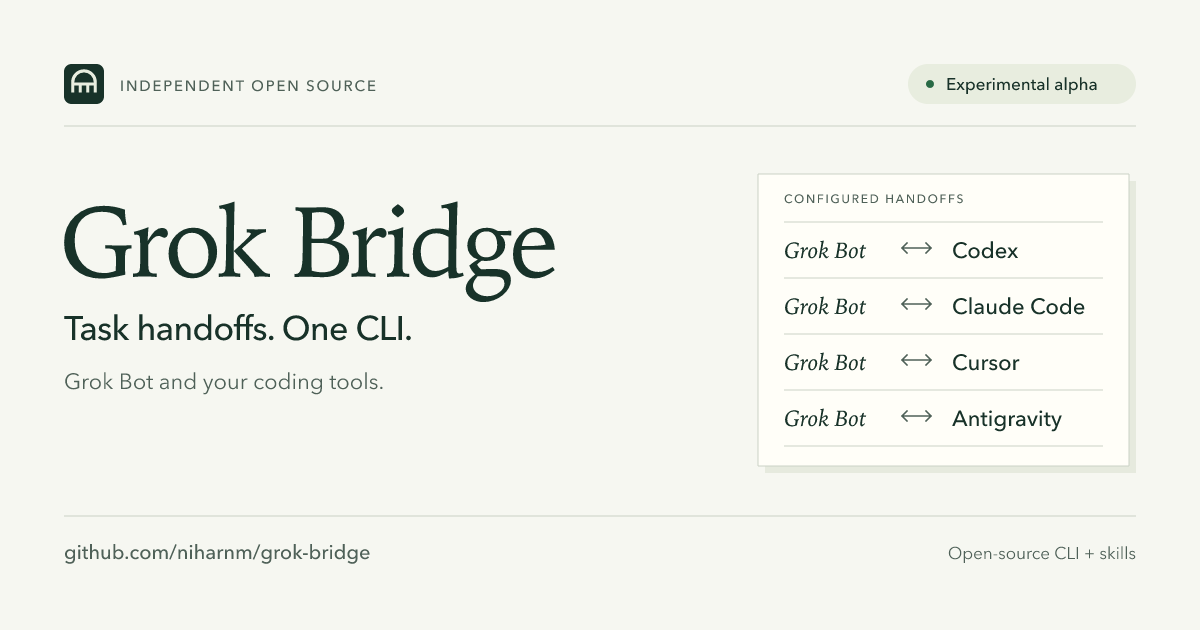
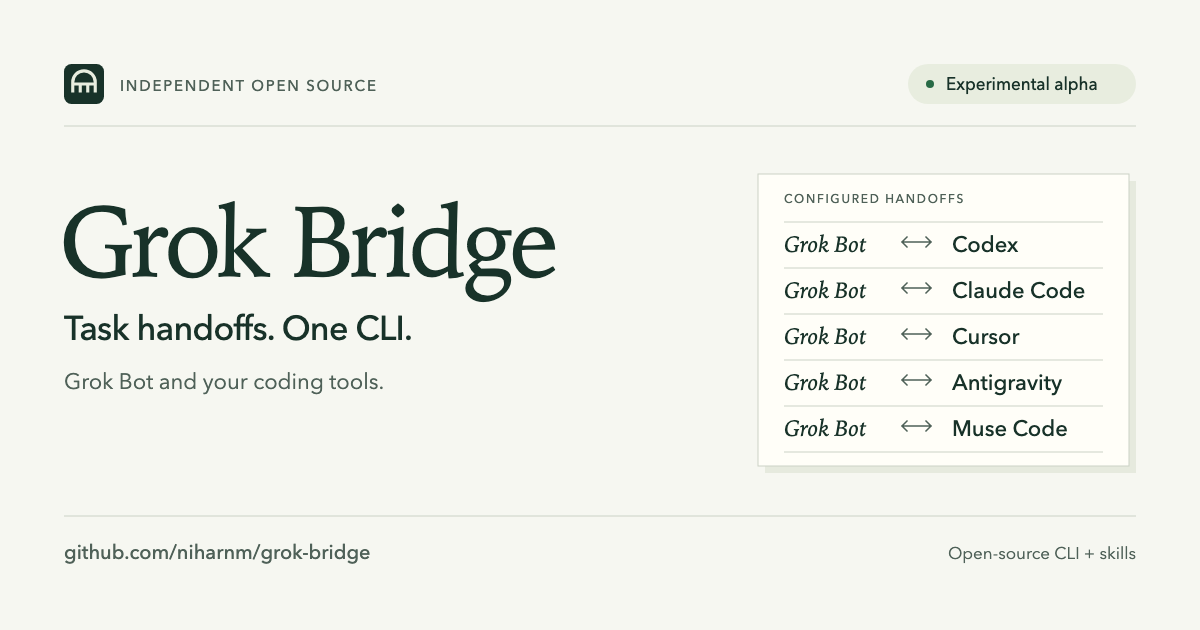
Prepare 0.1.0-alpha.2 so pinned installs include Muse Code
Every install command, plugin manifest, marketplace reference, and the
website pointed at v0.1.0-alpha.1, which predates the muse target. A
reader who followed the docs got a CLI that rejected --to muse.

This bumps the version to 0.1.0-alpha.2 across package.json, the three
plugin manifests, and both marketplaces, and repins every current
instruction to the new tag. The stopgap "install from main" notes are
removed. Historical records keep their alpha.1 references.

The website evidence text now counts ten routes and says the Muse Code
routes have no live exchange yet. The social card adds a Muse Code row.

No adapter code changed. All five coding targets were smoke-tested
through the CLI in review, work, and resume modes.

diff --git a/docs/index.html b/docs/index.html
@@ -50,7 +50,7 @@
         "programmingLanguage": "JavaScript",
         "runtimePlatform": "Node.js 22 or newer",
         "license": "https://github.com/niharnm/grok-bridge/blob/main/LICENSE",
-        "version": "0.1.0-alpha.1",
+        "version": "0.1.0-alpha.2",
         "author": {
           "@type": "Person",
           "name": "Nihar",
@@ -153,7 +153,7 @@
             </p>
             <a
               class="text-link"
-              href="https://github.com/niharnm/grok-bridge/releases/tag/v0.1.0-alpha.1"
+              href="https://github.com/niharnm/grok-bridge/releases/tag/v0.1.0-alpha.2"
               >Release & download <span aria-hidden="true">↗</span></a
             >
           </div>
@@ -170,7 +170,7 @@
                   Copy
                 </button>
               </div>
-              <pre><code id="install-command">npm install -g github:niharnm/grok-bridge#v0.1.0-alpha.1</code></pre>
+              <pre><code id="install-command">npm install -g github:niharnm/grok-bridge#v0.1.0-alpha.2</code></pre>
               <p class="terminal-note">
                 Then run <code>grok-bridge doctor</code> to check installed
                 executables.
@@ -240,8 +240,9 @@
           >
         </div>
         <p class="section-intro">
-          The alpha includes all eight routes. These are the observed live
-          results as of September 13, 2026.
+          The alpha configures ten routes. These are the observed live
+          results as of September 13, 2026. The two Muse Code routes were
+          added October 26, 2026, and have no live exchange yet.
         </p>
         <div class="evidence-grid">
           <div class="evidence-column">

diff --git a/test/site.test.js b/test/site.test.js
@@ -48,7 +48,7 @@ test("landing copy action writes the exact published installation command", asyn
   await ui.click();
   assert.equal(
     written,
-    "npm install -g github:niharnm/grok-bridge#v0.1.0-alpha.1",
+    "npm install -g github:niharnm/grok-bridge#v0.1.0-alpha.2",
   );
   assert.equal(ui.status.textContent, "Installation command copied.");
 });

diff --git a/README.md b/README.md
@@ -6,11 +6,11 @@
 [![MIT license](https://img.shields.io/badge/license-MIT-blue.svg)](LICENSE)
 [![Node.js 22+](https://img.shields.io/badge/node-%E2%89%A522-43853d.svg)](package.json)
 
-[Website](https://niharnm.github.io/grok-bridge/) · [Shared skill install](docs/skill-indexes.md) · [skills.sh pack](https://skills.sh/p/o02Pja39oijRhbnx) · [Release](https://github.com/niharnm/grok-bridge/releases/tag/v0.1.0-alpha.1)
+[Website](https://niharnm.github.io/grok-bridge/) · [Shared skill install](docs/skill-indexes.md) · [skills.sh pack](https://skills.sh/p/o02Pja39oijRhbnx) · [Release](https://github.com/niharnm/grok-bridge/releases/tag/v0.1.0-alpha.2)
 
 Hand a bounded task to another tool, get a result, and continue where you started. Grok Bridge packages a small shared runner, Codex, Claude Code, and Cursor plugins plus Antigravity and Muse Code skills, and a Grok Bot setup workflow. No runtime npm dependencies, separate bridge account, or custom remote-command server.
 
-**Experimental alpha.** Three directions have live evidence: Codex to Grok Bot, Grok Bot to Codex, and Grok Bot to Antigravity. Native Codex and Antigravity reads and edits also passed. Claude provider access, Cursor login, Antigravity source-host command permissions, and actual host skill discovery still limit acceptance. See the [acceptance record](docs/acceptance.md).
+**Experimental alpha.** Three directions have live evidence: Codex to Grok Bot, Grok Bot to Codex, and Grok Bot to Antigravity. Native Codex and Antigravity reads and edits also passed. Claude provider access, Cursor login, Antigravity source-host command permissions, and actual host skill discovery still limit acceptance. The Muse Code routes, added in `0.1.0-alpha.2`, have offline tests only and no live exchange yet. See the [acceptance record](docs/acceptance.md).
 
 | From | To | How |
 | --- | --- | --- |
@@ -32,7 +32,7 @@ Grok Bot's cloud computer is separate from your laptop. The reverse routes use i
 Install [Node.js 22 or newer](https://nodejs.org/en/download), then install from this repository:
 
 ```sh
-npm install -g github:niharnm/grok-bridge#v0.1.0-alpha.1
+npm install -g github:niharnm/grok-bridge#v0.1.0-alpha.2
 grok-bridge doctor
 ```
 
@@ -63,8 +63,6 @@ grok-bridge run --to antigravity --cwd /absolute/repo --mode review --task-file 
 grok-bridge run --to muse --cwd /absolute/repo --mode review --task-file task.txt
 ```
 
-The `muse` target is newer than the `v0.1.0-alpha.1` tag. To use it, install from `main` with `npm install -g github:niharnm/grok-bridge` until the next tag.
-
 `review` is the default. `work` explicitly permits edits within the task's scope. Supply `--model` only to select a particular destination model; otherwise its configured default applies. To continue a returned native session, use `--session SESSION_UUID` with the same target and repository. Nothing silently selects the most recent session.
 
 ## Install the host plugins
@@ -74,7 +72,7 @@ For a single shared Agent Skill across Codex, Claude Code, Cursor, Antigravity, 
 For **Claude Code**, run in its interactive prompt:
 
 ```text
-/plugin marketplace add niharnm/grok-bridge@v0.1.0-alpha.1
+/plugin marketplace add niharnm/grok-bridge@v0.1.0-alpha.2
 /plugin install grok-bridge@grok-bridge
 ```
 
@@ -83,7 +81,7 @@ Use `/grok-bridge:forward` to delegate to a chosen Grok Bot. `/grok-bridge:run` 
 For **Codex**, add the repository marketplace:
 
 ```sh
-codex plugin marketplace add niharnm/grok-bridge --ref v0.1.0-alpha.1
+codex plugin marketplace add niharnm/grok-bridge --ref v0.1.0-alpha.2
 ```
 
 Install Grok Bridge from the plugin browser and start a new session. Ask it to use the `forward` skill with a specific Bot and task. The repository includes the supported `.codex-plugin` compatibility manifest and `.agents/plugins/marketplace.json`.
@@ -134,7 +132,7 @@ The local child receives `GROK_BRIDGE_CHILD=1`; recursive bridge calls fail. Hos
 ## Development and evidence
 
 ```sh
-git clone --branch v0.1.0-alpha.1 https://github.com/niharnm/grok-bridge.git
+git clone --branch v0.1.0-alpha.2 https://github.com/niharnm/grok-bridge.git
 cd grok-bridge
 npm run check
 npm test

diff --git a/skills/grok-bridge/SKILL.md b/skills/grok-bridge/SKILL.md
@@ -5,9 +5,9 @@ description: Delegate a user-authorized task between Grok Bot and Codex, Claude 
 
 # Grok Bridge
 
-Use the installed `grok-bridge` executable. This skill contains instructions only. The runtime is the experimental `github:niharnm/grok-bridge#v0.1.0-alpha.1` package, installed separately. Preserve the destination's configured model unless the user specifies `--model MODEL`.
+Use the installed `grok-bridge` executable. This skill contains instructions only. The runtime is the experimental `github:niharnm/grok-bridge#v0.1.0-alpha.2` package, installed separately. Preserve the destination's configured model unless the user specifies `--model MODEL`.
 
-Read the relevant setup guide when a prerequisite is missing: [Codex and Claude Code](https://github.com/niharnm/grok-bridge/blob/v0.1.0-alpha.1/README.md#install-the-host-plugins), [Cursor](https://github.com/niharnm/grok-bridge/blob/v0.1.0-alpha.1/docs/cursor-setup.md), [Antigravity](https://github.com/niharnm/grok-bridge/blob/v0.1.0-alpha.1/docs/antigravity-setup.md), [Muse Code](https://github.com/niharnm/grok-bridge/blob/main/docs/muse-setup.md), or [Grok Bot](https://github.com/niharnm/grok-bridge/blob/v0.1.0-alpha.1/docs/grok-bot-setup.md). Installing this skill does not install executables, authenticate accounts, or grant command permissions. `grok-bridge doctor` checks executable availability only.
+Read the relevant setup guide when a prerequisite is missing: [Codex and Claude Code](https://github.com/niharnm/grok-bridge/blob/v0.1.0-alpha.2/README.md#install-the-host-plugins), [Cursor](https://github.com/niharnm/grok-bridge/blob/v0.1.0-alpha.2/docs/cursor-setup.md), [Antigravity](https://github.com/niharnm/grok-bridge/blob/v0.1.0-alpha.2/docs/antigravity-setup.md), [Muse Code](https://github.com/niharnm/grok-bridge/blob/v0.1.0-alpha.2/docs/muse-setup.md), or [Grok Bot](https://github.com/niharnm/grok-bridge/blob/v0.1.0-alpha.2/docs/grok-bot-setup.md). Installing this skill does not install executables, authenticate accounts, or grant command permissions. `grok-bridge doctor` checks executable availability only.
 
 ## Prepare one bounded task
 
@@ -34,7 +34,7 @@ A timeout or Ctrl-C stops local waiting without cancelling the cloud Bot. Do not
 
 ## Run a coding CLI
 
-Choose `codex`, `claude`, `cursor`, `antigravity`, or `muse` as requested. The `muse` target is newer than the tagged alpha; install from `main` to use it. The destination executable and login must exist on the execution host. Do not spawn another instance of the current host unless the user requested that separate run.
+Choose `codex`, `claude`, `cursor`, `antigravity`, or `muse` as requested. The destination executable and login must exist on the execution host. Do not spawn another instance of the current host unless the user requested that separate run.
 
 ```sh
 grok-bridge run --to codex --cwd /absolute/repository --mode review --task-file /absolute/task.txt --timeout 600

diff --git a/plugins/grok-bridge/skills/run/SKILL.md b/plugins/grok-bridge/skills/run/SKILL.md
@@ -5,7 +5,7 @@ description: Delegate a bounded task to Codex, Claude Code, Cursor, Antigravity,
 
 # Run a coding CLI
 
-Use the separately installed `grok-bridge` executable on PATH. Install this alpha with `npm install -g github:niharnm/grok-bridge#v0.1.0-alpha.1`. Do not walk out of the plugin cache to locate runtime scripts. Installation instructions are at [Grok Bridge](https://github.com/niharnm/grok-bridge/tree/v0.1.0-alpha.1).
+Use the separately installed `grok-bridge` executable on PATH. Install this alpha with `npm install -g github:niharnm/grok-bridge#v0.1.0-alpha.2`. Do not walk out of the plugin cache to locate runtime scripts. Installation instructions are at [Grok Bridge](https://github.com/niharnm/grok-bridge/tree/v0.1.0-alpha.2).
 
 ## Check host and scope
 
@@ -21,7 +21,7 @@ Cursor review uses `--mode ask --sandbox enabled` without force. Cursor work use
 
 Antigravity invokes the official `agy` CLI. Review selects `--mode plan`, which supplies review instructions without enforcing read-only access. Work selects `--mode accept-edits`. Both use `--sandbox --disable-slash-commands`; the sandbox can permit workspace writes. A successful terminal response can still follow a denied action, so verify that the required work actually happened. Do not bypass native permissions. Use `GROK_BRIDGE_ANTIGRAVITY_BIN` for a custom absolute executable path.
 
-Muse Code invokes Meta's `muse exec`. Both modes use `--approval-mode never` with Muse's OS sandbox on, so nothing waits for approval and the sandbox contains what runs. Review adds `--disable-write --disable-shell`. The bridge never adds `--yolo`, `--disable-sandbox`, or `--trust-workspace`. A run that waited on a tool approval returns `blocked`. Use `GROK_BRIDGE_MUSE_BIN` for a custom absolute executable path. The `muse` target is newer than the `v0.1.0-alpha.1` tag. To use it, install from `main` with `npm install -g github:niharnm/grok-bridge` until the next tag.
+Muse Code invokes Meta's `muse exec`. Both modes use `--approval-mode never` with Muse's OS sandbox on, so nothing waits for approval and the sandbox contains what runs. Review adds `--disable-write --disable-shell`. The bridge never adds `--yolo`, `--disable-sandbox`, or `--trust-workspace`. A run that waited on a tool approval returns `blocked`. Use `GROK_BRIDGE_MUSE_BIN` for a custom absolute executable path.
 
 ## Invoke the requested CLI
 

diff --git a/docs/grok-bot-setup.md b/docs/grok-bot-setup.md
@@ -9,7 +9,7 @@ Three directions passed live checks on macOS: Codex to Grok Bot, Grok Bot to Cod
 On the computer running Codex, Claude Code, Cursor, Antigravity, or Muse Code, install Node.js 22 or newer, Grok Bridge, and the separately maintained community client:
 
 ```sh
-npm install -g github:niharnm/grok-bridge#v0.1.0-alpha.1
+npm install -g github:niharnm/grok-bridge#v0.1.0-alpha.2
 npm install -g grok-bot-cli@0.2.3
 grok-bridge doctor
 ```
@@ -59,8 +59,6 @@ grok-bridge run --to cursor --cwd /absolute/repository --mode review --task-file
 grok-bridge run --to antigravity --cwd /absolute/repository --mode review --task-file /absolute/task.txt
 grok-bridge run --to muse --cwd /absolute/repository --mode review --task-file /absolute/task.txt
 ```
-
-The `muse` target is newer than the `v0.1.0-alpha.1` tag. To use it, install from `main` with `npm install -g github:niharnm/grok-bridge` until the next tag.
 
 Check the returned result against the source before trying `--mode work` with a scoped edit. Review and work permissions differ by target: Cursor work uses force inside its enabled sandbox, Antigravity review supplies plan instructions without an enforced read-only boundary, and Muse Code runs with approvals off inside its OS sandbox. Read the target's setup guide before an edit task. Installations and logins are separate setup actions. The bridge must not alter local-execution policies or invent an approval bypass.
 

diff --git a/docs/cursor-setup.md b/docs/cursor-setup.md
@@ -14,7 +14,7 @@ The forward gateway is experimental. This alpha has no verified authenticated Cu
 Install Node.js 22 or newer and the tagged CLI:
 
 ```sh
-npm install -g github:niharnm/grok-bridge#v0.1.0-alpha.1
+npm install -g github:niharnm/grok-bridge#v0.1.0-alpha.2
 ```
 
 Use the tag for both the runtime and plugin. The repository's default branch can differ from the alpha's implementation.
@@ -22,7 +22,7 @@ Use the tag for both the runtime and plugin. The repository's default branch can
 For Cursor's native plugin, clone the same tag into a new directory:
 
 ```sh
-git clone --branch v0.1.0-alpha.1 --depth 1 https://github.com/niharnm/grok-bridge.git grok-bridge-alpha
+git clone --branch v0.1.0-alpha.2 --depth 1 https://github.com/niharnm/grok-bridge.git grok-bridge-alpha
 ```
 
 Copy the clone's `plugins/grok-bridge` directory, including its hidden `.cursor-plugin` directory, into `~/.cursor/plugins/local/grok-bridge`. If that destination already exists, inspect it before updating; preserve any local changes. Restart Cursor or run **Developer: Reload Window**, then confirm the `forward` and `run` skills under **Customize**.

diff --git a/docs/acceptance.md b/docs/acceptance.md
@@ -9,7 +9,9 @@ Checked September 13, 2026. Implementation, offline tests, live provider checks,
 - Community grok-bot-cli 0.2.3, inspected commit `9192bf8f4c05d65abdb568554d3809ec5e4e380f`.
 - A dedicated Grok Bot and an isolated scratch Git repository with a known fixture.
 
-## Eight configured directions
+## Original eight directions
+
+These are the `0.1.0-alpha.1` routes. The two Muse Code directions are recorded separately [below](#muse-code-destination).
 
 | Direction | Observed result | Remaining boundary |
 | --- | --- | --- |
@@ -58,7 +60,7 @@ All four CI jobs passed on Node.js 22/24 across macOS/Linux for [implementation 
 
 ## Muse Code destination
 
-Added October 26, 2026, after the alpha tag. The Muse Code routes are configured but have no live exchange yet. Muse Code was not installed on the development host, and no Muse login was used.
+Added October 26, 2026, and released in `0.1.0-alpha.2`. The Muse Code routes are configured but have no live exchange yet. Muse Code was not installed on the development host, and no Muse login was used.
 
 | Check | Observed result |
 | --- | --- |

diff --git a/integrations/antigravity/grok-bridge/SKILL.md b/integrations/antigravity/grok-bridge/SKILL.md
@@ -5,7 +5,7 @@ description: Use Grok Bridge from Antigravity to send a user-authorized task to 
 
 # Grok Bridge for Antigravity
 
-Invoke the shared `grok-bridge` CLI on PATH. Install the alpha separately with `npm install -g github:niharnm/grok-bridge#v0.1.0-alpha.1`. This skill contains no runtime and must not search outside its installed directory for scripts. See the [tagged setup guide](https://github.com/niharnm/grok-bridge/blob/v0.1.0-alpha.1/docs/antigravity-setup.md) for host-specific installation.
+Invoke the shared `grok-bridge` CLI on PATH. Install the alpha separately with `npm install -g github:niharnm/grok-bridge#v0.1.0-alpha.2`. This skill contains no runtime and must not search outside its installed directory for scripts. See the [tagged setup guide](https://github.com/niharnm/grok-bridge/blob/v0.1.0-alpha.2/docs/antigravity-setup.md) for host-specific installation.
 
 ## Bound every handoff
 

diff --git a/integrations/muse/grok-bridge/SKILL.md b/integrations/muse/grok-bridge/SKILL.md
@@ -5,7 +5,7 @@ description: Use Grok Bridge from Muse Code to send a user-authorized task to a 
 
 # Grok Bridge for Muse Code
 
-Invoke the shared `grok-bridge` CLI on PATH. Install the runtime separately with `npm install -g github:niharnm/grok-bridge`. This skill contains no runtime and must not search outside its installed directory for scripts. See the [Muse Code setup guide](https://github.com/niharnm/grok-bridge/blob/main/docs/muse-setup.md) for host-specific installation.
+Invoke the shared `grok-bridge` CLI on PATH. Install the runtime separately with `npm install -g github:niharnm/grok-bridge#v0.1.0-alpha.2`. This skill contains no runtime and must not search outside its installed directory for scripts. See the [Muse Code setup guide](https://github.com/niharnm/grok-bridge/blob/v0.1.0-alpha.2/docs/muse-setup.md) for host-specific installation.
 
 ## Bound every handoff
 

diff --git a/CHANGELOG.md b/CHANGELOG.md
@@ -1,10 +1,12 @@
 # Changelog
 
-## Unreleased
+## 0.1.0-alpha.2
 
 - Muse Code destination: `run --to muse` drives Meta's `muse exec --json` with review and work modes, explicit session continuation, and a private prompt file.
 - Muse Code host skill under `integrations/muse` and a [setup guide](docs/muse-setup.md) for both directions.
 - Ten configured directions. The Muse Code routes have offline and replayed-capture tests only; no live Muse exchange is recorded yet.
+- Install commands, plugin manifests, marketplace references, and the website now point at this tag, so a pinned install includes every documented target.
+- No change to the Codex, Claude Code, Cursor, Antigravity, or Grok Bot adapters.
 
 ## 0.1.0-alpha.1
 

diff --git a/plugins/grok-bridge/skills/forward/SKILL.md b/plugins/grok-bridge/skills/forward/SKILL.md
@@ -5,7 +5,7 @@ description: Send a user-authorized, scoped task from Codex, Claude Code, Cursor
 
 # Forward a task to Grok Bot
 
-Use the `grok-bridge` executable on PATH. The runtime is installed separately with `npm install -g github:niharnm/grok-bridge#v0.1.0-alpha.1`. Do not resolve runtime scripts by walking out of this plugin directory; hosts may cache the plugin separately from the repository.
+Use the `grok-bridge` executable on PATH. The runtime is installed separately with `npm install -g github:niharnm/grok-bridge#v0.1.0-alpha.2`. Do not resolve runtime scripts by walking out of this plugin directory; hosts may cache the plugin separately from the repository.
 
 ## Bound the task
 
